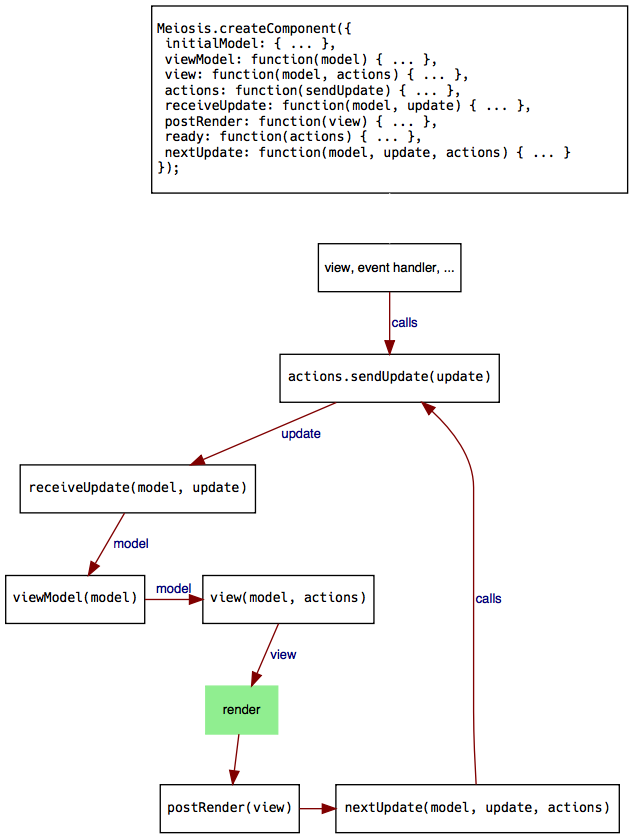
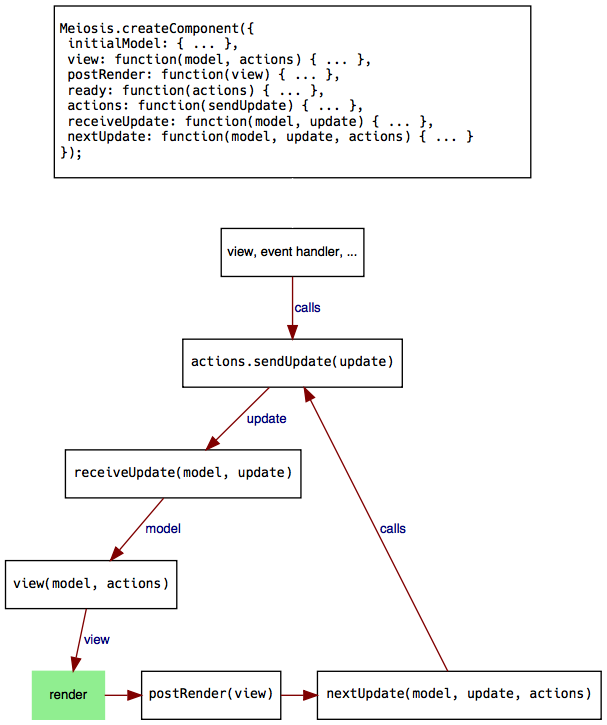
Update guide.

diff --git a/meiosis_big_picture.md b/meiosis_big_picture.md
@@ -12,8 +12,7 @@ Again, every piece is optional, so if you do not specify a particular property w
 
 As you can see, this is what happens initially:
 
-- The `initialModel` is passed to the `viewModel` function, if there is one.
-- The model that the `viewModel` returns is passed to the `view` function. If there is no `viewModel` function, `initialModel` is passed directly to the `view` function.
+- The `initialModel` is passed to the `view`.
 - Meiosis also passes the `actions` object to the `view` function.
 - Meiosis takes the view returned by the `view` function and renders it, using the renderer that was configured with the `meiosis.init` function.
 - If there is a `postRender` function, it gets called with the view.
@@ -29,11 +28,10 @@ Updates are triggered when you call `actions.sendUpdate`:
 
 - The update is passed to the `receiveUpdate` function. Meiosis also passes the latest model as the first parameter.
 - The model returned by the `receiveUpdate` function becomes the latest model.
-- The model is passed to the `viewModel` function, if there is one.
-- The model that the `viewModel` returns is passed to the `view` function. If there is no `viewModel` function, the model is passed directly to the `view` function.
+- The model is passed to the `view` function.
 - Meiosis also passes the `actions` object to the `view` function.
 - Meiosis takes the view returned by the `view` function and renders it, using the renderer that was configured with the `meiosis.init` function.
 - If there is a `postRender` function, it gets called with the view.
-- If there is a `nextUpdate` function, Meiosis calls it with the model, update, and `actions` object. That function decides whether to trigger another action by calling `actions.sendUpdate`.
+- If there is a `nextUpdate` function, Meiosis calls it with the model, update, and `actions` object. The `nextUpdate` function decides whether to trigger another action by calling `actions.sendUpdate`.
 
 These diagrams are meant as a cheatsheet that you can return to for reference. In the following chapters, we'll discuss each property that you can pass to `Meiosis.createComponent` in more detail.

diff --git a/SUMMARY.md b/SUMMARY.md
@@ -7,14 +7,18 @@
   * [1.4 Counter Example with React](counter_example_with_react.md)
 * [2. Meiosis: The Big Picture](meiosis_big_picture.md)
   * [2.1 Initial Model](initial_model.md)
-  * [2.2 Adding a View Model](adding_view_models.md)
-  * [2.3 Creating the View](creating_the_view.md)
-  * [2.4 The Post Render Function](post_render_functions.md)
-  * [2.5 The Ready Function](the_ready_function.md)
-  * [2.6 Creating Actions](creating_actions.md)
-  * [2.7 Receiving Updates](receiving_updates.md)
-  * [2.8 Automatic Next Updates](automatic_next_updates.md)
+  * [2.2 Creating the View](creating_the_view.md)
+  * [2.3 The Post Render Function](post_render_functions.md)
+  * [2.4 The Ready Function](the_ready_function.md)
+  * [2.5 Creating Actions](creating_actions.md)
+  * [2.6 Receiving Updates](receiving_updates.md)
+  * [2.7 Automatic Next Updates](automatic_next_updates.md)
 * [3. Tracing and Debugging](tracing_and_debugging_with_meiosis-tracer.md)
+* [4. Best Practices](best_practices.md)
+  * [4.1 Creating and Using Components](components.md)
+  * [4.2 Adding a View Model](adding_view_models.md)
+  * [4.3 Using a State Object](state.md)
+  * [4.4 Side Effects](side_effects.md)
 * [4. Customizing Meiosis](customization.md)
   * [4.1 Renderers](renderers.md)
   * [4.2 Merging Objects](merge.md)

diff --git a/adding_view_models.md b/adding_view_models.md
@@ -1,8 +1,6 @@
 # Adding a View Model
 
-Sometimes it may be convenient to write a *view model* function for a component. Meiosis will call this function with the updated model after `receiveUpdate`, and before calling `view`, so that the function can augment the model with properties that are convenient for the view.
-
-To add a view model function to a component, simply specify a `viewModel` property when creating the component. The function should accept the model as a parameter and return the view model. Whether the function mutates the model or returns a new object is really up to you.
+Sometimes it may be convenient to write a *view model* function for a component.
 
 ## Examples
 

diff --git a/components.md b/components.md
@@ -1,0 +1,3 @@
+# Creating and Using Components
+
+Coming soon.

diff --git a/state.md b/state.md
@@ -1,0 +1,3 @@
+# Using a State Object
+
+Coming soon.

diff --git a/best_practices.md b/best_practices.md
@@ -1,0 +1,3 @@
+# Best Practices
+
+Coming soon.

diff --git a/side_effects.md b/side_effects.md
@@ -1,0 +1,3 @@
+# Side Effects
+
+Coming soon.
